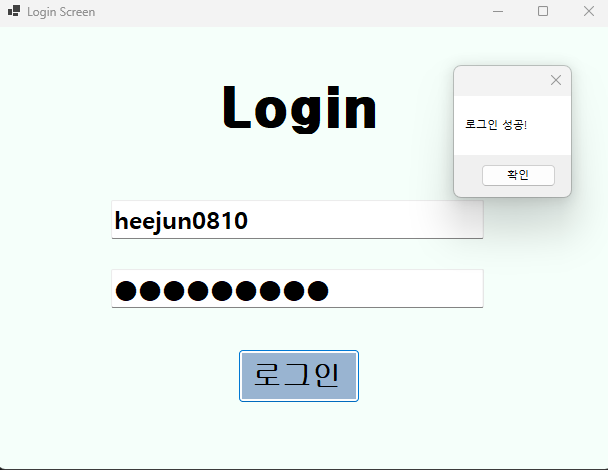
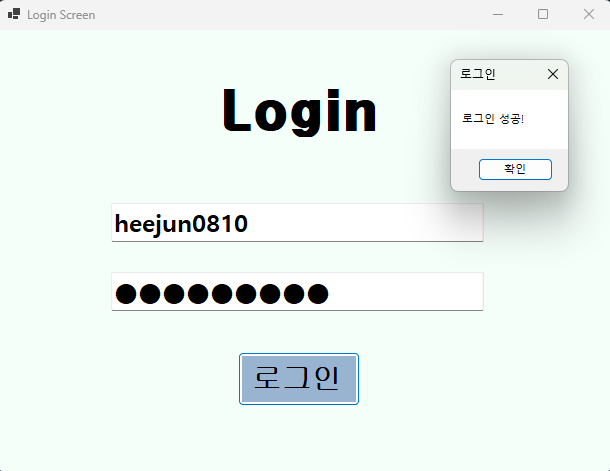
과제2 코딩과 테스트 완료  아이디 또는 패스워드가 잘못 입력되었을 때 에러 메시지 보여주기  MessageBox를 띄우지 말고 아이디와 패스워드를 입력하는 곳에 보여주기
일부 UI/UX 개선

diff --git a/Form1.Designer.cs b/Form1.Designer.cs
@@ -32,26 +32,31 @@
             txtID = new TextBox();
             txtPW = new TextBox();
             btnLogin = new Button();
+            lblErrorMsg = new Label();
+            lblID = new Label();
+            lblPW = new Label();
             SuspendLayout();
             // 
             // lblAppName
             // 
             lblAppName.AutoSize = true;
-            lblAppName.Font = new Font("휴먼둥근헤드라인", 36F, FontStyle.Bold, GraphicsUnit.Point, 129);
-            lblAppName.Location = new Point(213, 57);
+            lblAppName.BackColor = Color.WhiteSmoke;
+            lblAppName.BorderStyle = BorderStyle.FixedSingle;
+            lblAppName.Font = new Font("함초롬돋움", 35.9999962F, FontStyle.Bold | FontStyle.Italic, GraphicsUnit.Point, 129);
+            lblAppName.Location = new Point(-1, -4);
             lblAppName.Name = "lblAppName";
-            lblAppName.Size = new Size(181, 50);
+            lblAppName.Size = new Size(587, 64);
             lblAppName.TabIndex = 0;
-            lblAppName.Text = "Login";
+            lblAppName.Text = "    Login                           ";
             lblAppName.Click += lblLogin_Click;
             // 
             // txtID
             // 
             txtID.Font = new Font("맑은 고딕", 18F, FontStyle.Bold);
             txtID.ForeColor = SystemColors.ScrollBar;
-            txtID.Location = new Point(113, 173);
+            txtID.Location = new Point(69, 126);
             txtID.Name = "txtID";
-            txtID.Size = new Size(373, 39);
+            txtID.Size = new Size(372, 39);
             txtID.TabIndex = 1;
             txtID.Text = "아이디";
             txtID.TextChanged += textBox1_TextChanged;
@@ -62,11 +67,12 @@
             // 
             txtPW.Font = new Font("맑은 고딕", 18F, FontStyle.Bold);
             txtPW.ForeColor = SystemColors.ScrollBar;
-            txtPW.Location = new Point(113, 242);
+            txtPW.Location = new Point(70, 196);
             txtPW.Name = "txtPW";
-            txtPW.Size = new Size(373, 39);
+            txtPW.Size = new Size(372, 39);
             txtPW.TabIndex = 2;
             txtPW.Text = "비밀번호";
+            txtPW.TextChanged += this.txtPW_TextChanged;
             txtPW.Enter += txtPW_Enter;
             txtPW.Leave += txtPW_Leave;
             // 
@@ -74,20 +80,56 @@
             // 
             btnLogin.BackColor = SystemColors.ActiveCaption;
             btnLogin.Font = new Font("굴림", 21.75F, FontStyle.Bold, GraphicsUnit.Point, 129);
-            btnLogin.Location = new Point(240, 322);
+            btnLogin.Location = new Point(73, 282);
             btnLogin.Name = "btnLogin";
-            btnLogin.Size = new Size(122, 54);
+            btnLogin.Size = new Size(359, 54);
             btnLogin.TabIndex = 3;
             btnLogin.Text = "로그인";
             btnLogin.UseVisualStyleBackColor = false;
             btnLogin.Click += btnLogin_Click;
+            // 
+            // lblErrorMsg
+            // 
+            lblErrorMsg.AutoSize = true;
+            lblErrorMsg.ForeColor = Color.Red;
+            lblErrorMsg.Location = new Point(72, 253);
+            lblErrorMsg.Name = "lblErrorMsg";
+            lblErrorMsg.Size = new Size(254, 15);
+            lblErrorMsg.TabIndex = 4;
+            lblErrorMsg.Text = "아이디 또는 비밀번호가 잘못 입력되었습니다.";
+            lblErrorMsg.Visible = false;
+            // 
+            // lblID
+            // 
+            lblID.AutoSize = true;
+            lblID.ForeColor = Color.Gray;
+            lblID.Location = new Point(69, 108);
+            lblID.Name = "lblID";
+            lblID.Size = new Size(19, 15);
+            lblID.TabIndex = 5;
+            lblID.Text = "ID\r\n";
+            lblID.Click += lblID_Click;
+            // 
+            // lblPW
+            // 
+            lblPW.AutoSize = true;
+            lblPW.ForeColor = Color.Gray;
+            lblPW.Location = new Point(68, 178);
+            lblPW.Name = "lblPW";
+            lblPW.Size = new Size(25, 15);
+            lblPW.TabIndex = 6;
+            lblPW.Text = "PW";
+            lblPW.Click += lblPW_Click;
             // 
             // MainForm
             // 
             AutoScaleDimensions = new SizeF(7F, 15F);
             AutoScaleMode = AutoScaleMode.Font;
             BackColor = Color.MintCream;
-            ClientSize = new Size(614, 442);
+            ClientSize = new Size(534, 413);
+            Controls.Add(lblPW);
+            Controls.Add(lblID);
+            Controls.Add(lblErrorMsg);
             Controls.Add(btnLogin);
             Controls.Add(txtPW);
             Controls.Add(txtID);
@@ -95,6 +137,7 @@
             ForeColor = SystemColors.ControlText;
             Name = "MainForm";
             Text = "Login Screen";
+            Load += this.MainForm_Load;
             ResumeLayout(false);
             PerformLayout();
         }
@@ -105,5 +148,8 @@
         private TextBox txtID;
         private TextBox txtPW;
         private Button btnLogin;
+        private Label lblErrorMsg;
+        private Label lblID;
+        private Label lblPW;
     }
 }

diff --git a/Form1.cs b/Form1.cs
@@ -56,6 +56,7 @@ namespace LoginScreen
                 txtPW.ForeColor = Color.Silver;
             }
         }
+
         string myID = "heejun0810";
         string myPW = "22017004@";
         private void btnLogin_Click(object sender, EventArgs e)
@@ -64,12 +65,23 @@ namespace LoginScreen
             string inputPW = txtPW.Text;
             if (inputID == myID && inputPW == myPW)
             {
-                MessageBox.Show("로그인 성공!");
+                MessageBox.Show("로그인 성공!", "로그인", MessageBoxButtons.OK);
+                lblErrorMsg.Visible = false;
             }
             else
             {
-                MessageBox.Show("로그인 실패~");
+                lblErrorMsg.Visible = true;
             }
+        }
+
+        private void lblPW_Click(object sender, EventArgs e)
+        {
+
+        }
+
+        private void lblID_Click(object sender, EventArgs e)
+        {
+
         }
     }
 }
